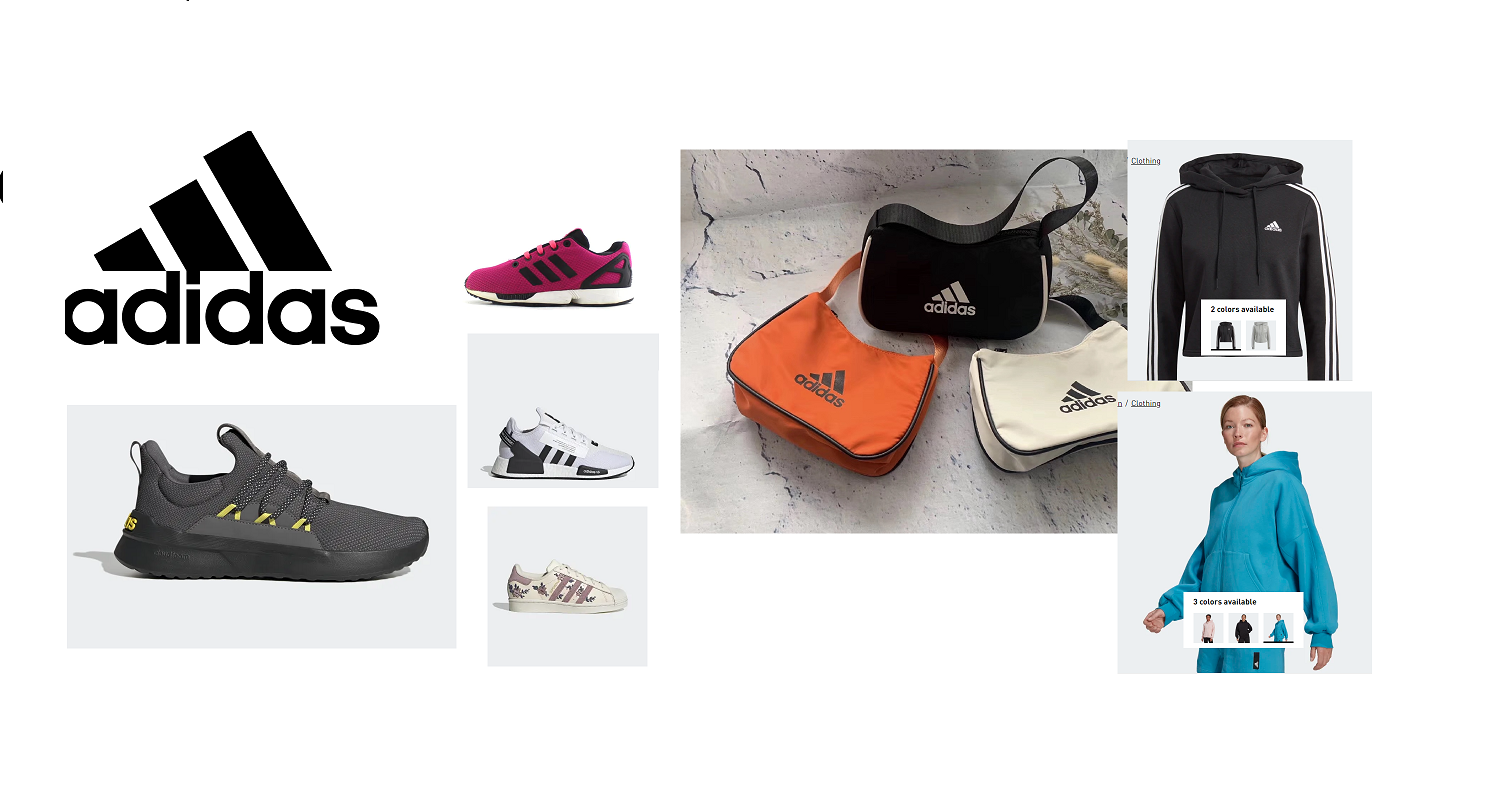
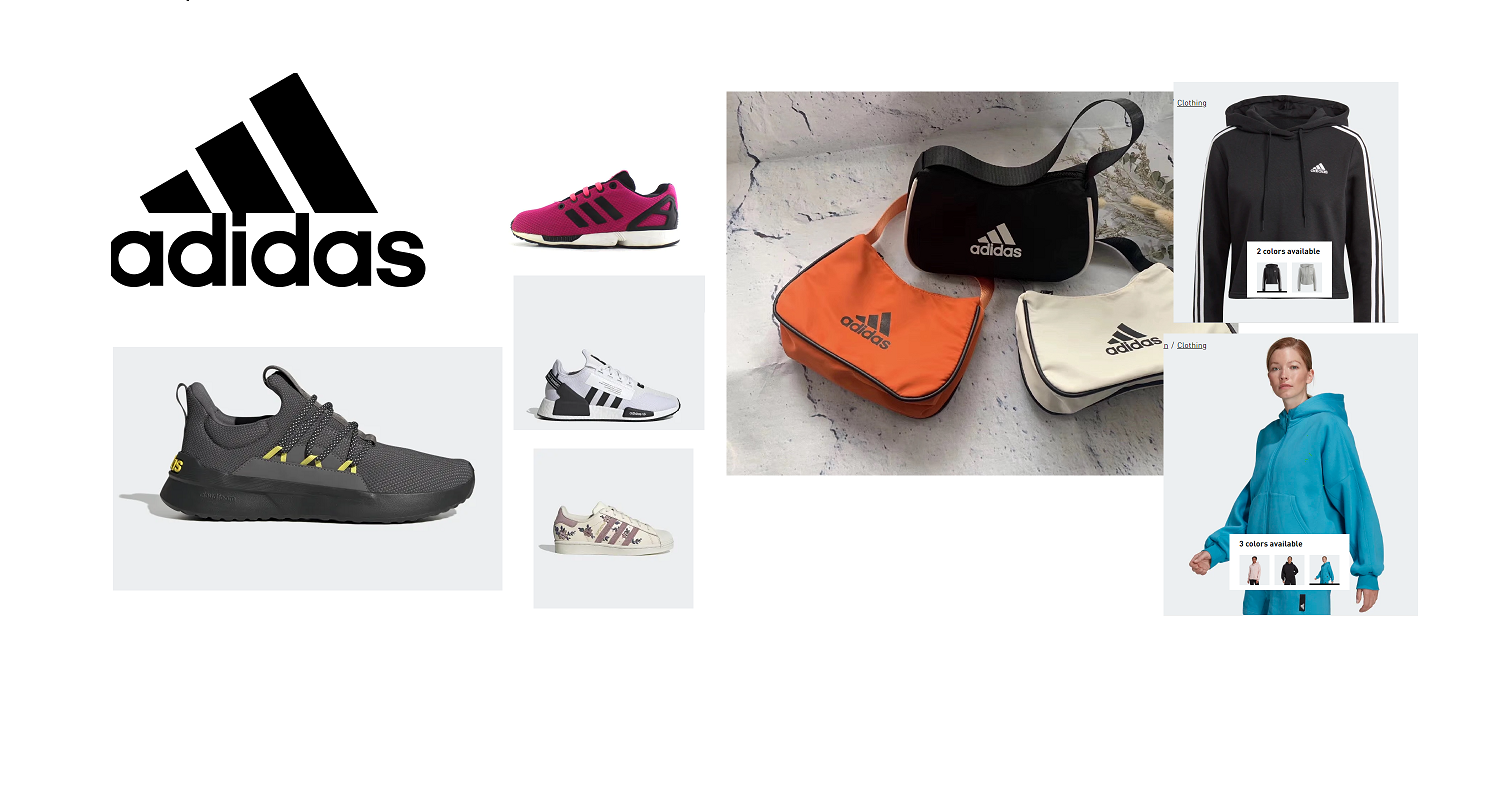
1

Changed region(s): [[0.0311, 0.0924, 0.9338, 0.8313]]

diff --git a/index.php b/index.php
@@ -1,55 +1,12 @@
 <?php
+header("refresh: 5; ./public/");
 
-use Illuminate\Contracts\Http\Kernel;
-use Illuminate\Http\Request;
+	echo '<title>Laravel 8 Installed</title><div style="background: #e9ffed; border: 1px solid #b0dab7; padding: 15px;" align="center" >
+	<font size="5" color="#182e7a">Laravel 8 is installed successfully.</font><br /><br />
+	<font size="4">Laravel 8 is a Framework and doesn\'t have an index page.<br /><br />
+	You will be redirected to its "public" folder in 5 seconds...<br /><br />
+	Laravel is a clean and classy framework for PHP web development.
 
-define('LARAVEL_START', microtime(true));
-
-/*
-|--------------------------------------------------------------------------
-| Check If The Application Is Under Maintenance
-|--------------------------------------------------------------------------
-|
-| If the application is in maintenance / demo mode via the "down" command
-| we will load this file so that any pre-rendered content can be shown
-| instead of starting the framework, which could cause an exception.
-|
-*/
-
-if (file_exists($maintenance = __DIR__.'/../storage/framework/maintenance.php')) {
-    require $maintenance;
-}
-
-/*
-|--------------------------------------------------------------------------
-| Register The Auto Loader
-|--------------------------------------------------------------------------
-|
-| Composer provides a convenient, automatically generated class loader for
-| this application. We just need to utilize it! We'll simply require it
-| into the script here so we don't need to manually load our classes.
-|
-*/
-
-require __DIR__.'/vendor/autoload.php';
-
-/*
-|--------------------------------------------------------------------------
-| Run The Application
-|--------------------------------------------------------------------------
-|
-| Once we have the application, we can handle the incoming request using
-| the application's HTTP kernel. Then, we will send the response back
-| to this client's browser, allowing them to enjoy our application.
-|
-*/
-
-$app = require_once __DIR__.'/bootstrap/app.php';
-
-$kernel = $app->make(Kernel::class);
-
-$response = $kernel->handle(
-    $request = Request::capture()
-)->send();
-
-$kernel->terminate($request, $response);
+Freeing you from spaghetti code, Laravel helps you create wonderful applications using simple, expressive syntax. Development should be a creative experience that you enjoy, not something that is painful. Enjoy the fresh air.
+</font></div>';
+?>

diff --git a/resources/views/home.blade.php b/resources/views/home.blade.php
@@ -22,8 +22,8 @@
             </div>
            
             <div class="container mx-auto px-5 lg:px-0 flex item-center " style="background-image: {{ url('/images/addidas_shoe.jpg') }}">
-                <img src="{{asset('/images/adidas_front_page2.png')}}" alt="Girl in a jacket" class=" w-1/2 h-1/2">
-                <img src="{{asset('/images/adidas_front_page2.png')}}" alt="Girl in a jacket" class=" w-1/2 h-1/2">
+                <img src="{{asset('/images/adidas_front_page2.png')}}" alt="Girl in a jacket" class=" w-full h-full">
+                {{-- <img src="{{asset('/images/adidas_front_page2.png')}}" alt="Girl in a jacket" class=" w-1/2 h-1/2"> --}}
             </div>
         </div>
   </div>

diff --git a/server.php b/server.php
@@ -18,4 +18,4 @@ if ($uri !== '/' && file_exists(__DIR__.'/public'.$uri)) {
     return false;
 }
 
-require_once __DIR__.'/index.php';
+require_once __DIR__.'/public/index.php';
